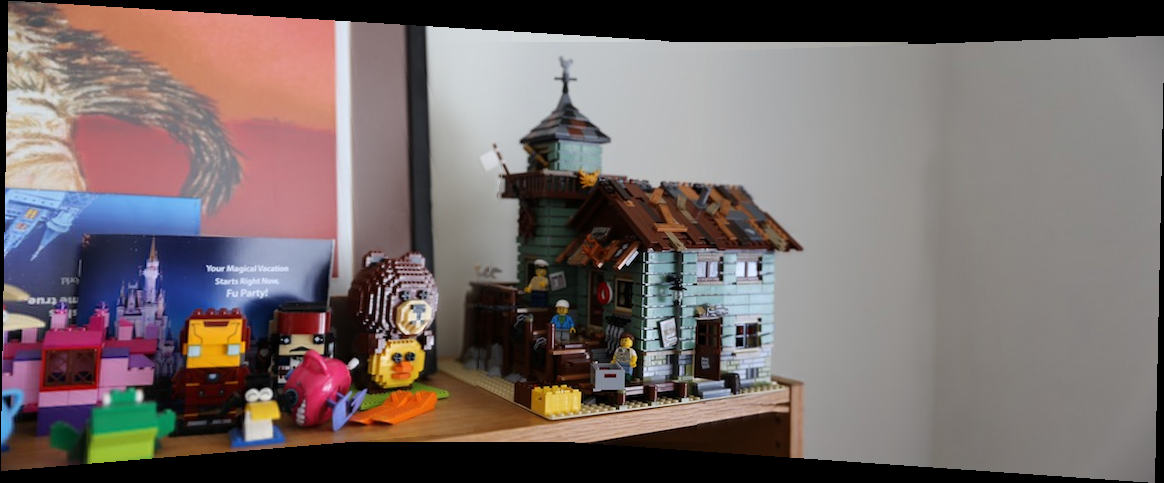
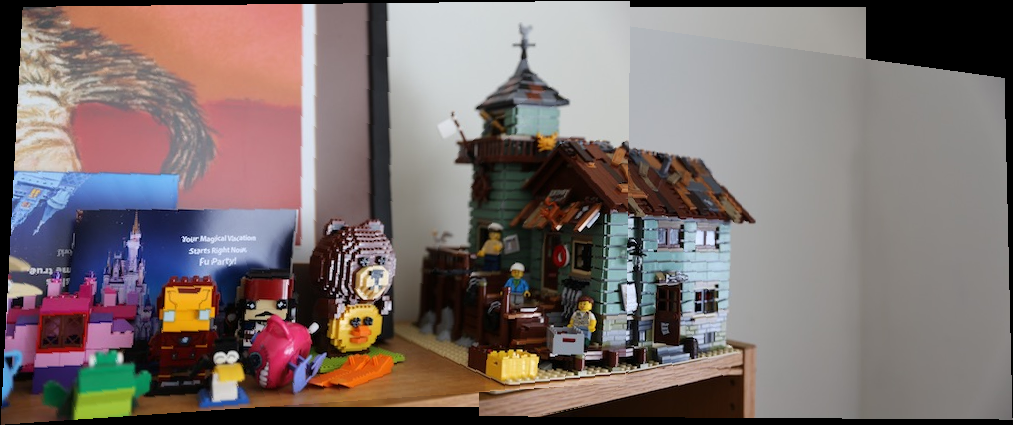
fixed patches

diff --git a/src/Pano.cpp b/src/Pano.cpp
@@ -93,7 +93,7 @@ FloatImage Pano::cat2images(const FloatImage &im1, const FloatImage &im2, Mat3f 
 }
 
 //<<<<<<< HEAD
-FloatImage Pano::autocatnimages(std::vector<PanoImage> &pims, bool center){
+FloatImage Pano::autocatnimages(std::vector<PanoImage> &pims, bool center, bool blend, bool twoscale){
     // make sure pims is not empty and pims size is not 1
 
     // initImages (calculate features and patches)
@@ -131,7 +131,17 @@ FloatImage Pano::autocatnimages(std::vector<PanoImage> &pims, bool center){
         lhomo << nhomo;
     }
 
-    output = catnimagesTwoScaleBlend(ref, ims, homos);
+    if(blend){
+        if(twoscale)
+            output = catnimagesTwoScaleBlend(ref, ims, homos);
+        else
+            output = catnimagesBlend(ref, ims, homos);
+
+    } else{
+        output = catnimages(ref, ims, homos);
+    }
+
+
 //    }
 
     return output;
@@ -793,7 +803,6 @@ Mat3f Pano::RANSAC( PanoImage &pim1,PanoImage &pim2, float match_th, float porti
                (int)bestPairs[i][1].x(), (int)bestPairs[i][1].y());
     }
 
-    cout << Homo << endl;
     //Homo = computeHomo(Largest_inliers);
     viz = vizMatches(pim1, pim2, Largest_inliers);
     viz.debugWrite();
@@ -820,8 +829,13 @@ FloatImage Pano::vizMatches(PanoImage &pim1, PanoImage &pim2, std::vector<std::v
                 output(i + offsetX, j, k) = im2(i, j, k);
 
 
-    for (int i = 0; i < matches.size(); ++i)
+    for (int i = 0; i < matches.size(); ++i) {
         output.drawLine(matches[i][0].x(), matches[i][0].y(), matches[i][1].x() + offsetX, matches[i][1].y());
+        output.drawSquare(matches[i][0].x(), matches[i][0].y());
+        output.drawSquare(matches[i][1].x() + offsetX, matches[i][1].y());
+    }
+
+
 
     return output;
 

diff --git a/src/main.cpp b/src/main.cpp
@@ -30,7 +30,28 @@ void testCatTable(){
     PanoImage pim2(FloatImage(DATA_DIR "/input/table2.jpg"));
     //FloatImage autocat = pano.autocat2images(pim1, pim2);
     FloatImage autocat = pano.autocat2images(pim1, pim2, true);
-    autocat.write(DATA_DIR "/output/auto_pano_left_right.png");
+    autocat.write(DATA_DIR "/output/auto_table_left_right.png");
+
+}
+
+void testCatLily(){
+    Pano pano;
+    pano.setWindow(9);
+    pano.setPatchWindow(31);
+    pano.setMatchTh(0.7f);
+    pano.setHarrisTh(0.2f);
+    pano.setSigma(3.f);
+    pano.setNorm(true);
+    pano.setPortion(0.2f);
+
+    PanoImage pim1(FloatImage(DATA_DIR "/input/lily1.jpg"));
+    PanoImage pim2(FloatImage(DATA_DIR "/input/lily2.jpg"));
+//    vector<PanoImage> pims;
+//    pims.push_back(pim1);
+//    pims.push_back(pim2);
+    FloatImage autocat = pano.autocat2images(pim1, pim2);
+//    FloatImage autocat = pano.autocatnimages(pims);
+    autocat.write(DATA_DIR "/output/auto_lily_left_right.png");
 
 }
 
@@ -123,7 +144,7 @@ void testNHome(int start, int end){
         pims.push_back(PanoImage(FloatImage(buffer)));
     }
 
-    FloatImage autocat = pano.autocatnimages(pims);
+    FloatImage autocat = pano.autocatnimages(pims, true, false);
     autocat.write(DATA_DIR "/output/auto_home_lego_lin.png");
 
 }
@@ -195,13 +216,14 @@ int main(){
     //testCatNPan();
     //
     //testCatPan();
-    //testHome();
+//    testHome();
 
 //    testNHome(5180, 5186);
 //    testWeightMap();
 //    testVizPatch();
 //    testCatTable();
-    testNHome(5163, 5165);
+    testCatLily();
+//    testNHome(5163, 5165);
 
     return 0;
 

diff --git a/src/floatimage.cpp b/src/floatimage.cpp
@@ -492,14 +492,21 @@ void FloatImage::drawLine(int a, int b, int c, int d){
     for (int i = a; i <= c; ++i) {
         res = k1 * i + k2;
         for (int j = 0; j < channels(); ++j) {
-            operator()(i, (int)res , j) = 0.f;
+            operator()(i, (int)res , j) = 1.f;
         }
-//        if(channels() > 2){
-//            operator()(i, (int)res , 1) = 1.f;
-//        }else{
-//            operator()(i, (int)res , 0) = 1.f;
-//        }
     }
+}
+
+void FloatImage::drawSquare(int a, int b, int size){
+	int s = size/2;
+	for (int i = -s; i <= s; ++i) {
+		for (int j = -s; j <= s; ++j) {
+			operator()(a + i, b + j, 0) = 1.f;
+			for (int c = 1; c < channels(); ++c) {
+				operator()(a + i, b + j, c) = 0.f;
+			}
+		}
+	}
 }
 
 bool FloatImage::inBound(int x, int y){

diff --git a/include/Pano.hpp b/include/Pano.hpp
@@ -78,7 +78,7 @@ public:
     FloatImage catnimagesTwoScaleBlend(FloatImage ref, std::vector<FloatImage> ims, std::vector<Mat3f> homos, float sigma = 3.f, bool lin=true);
 
     FloatImage autocat2images(PanoImage &pim1, PanoImage &pim2, bool blend=true);
-    FloatImage autocatnimages(std::vector<PanoImage> &pims, bool center=true);
+    FloatImage autocatnimages(std::vector<PanoImage> &pims, bool center=true, bool blend=true, bool twoscale=true);
 
 
 

diff --git a/include/floatimage.h b/include/floatimage.h
@@ -86,6 +86,7 @@ public:
     // Helper functions for validation
     void drawLine(int a, int b, int c, int d);
     bool inBound(int x, int y);
+    void drawSquare(int a, int b, int size=3);
 
 private:
     static int s_debugWriteNumber; // Image number for debug write
